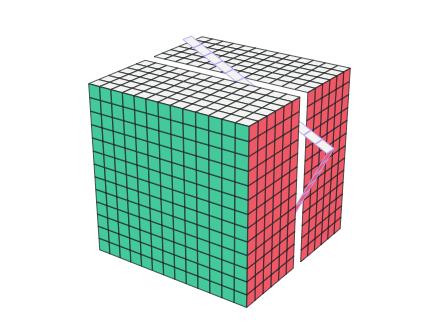
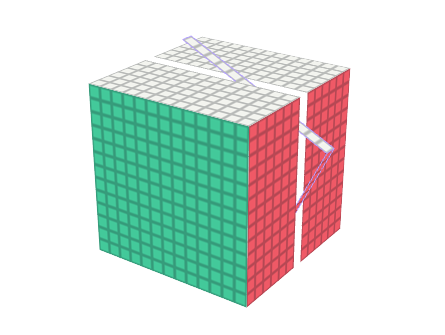
Update Site source

Changed region(s): [[0.1753, 0.0896, 0.7888, 0.9254]]

diff --git a/dist/large-view.js b/dist/large-view.js
@@ -9,7 +9,7 @@
     if(rotation&&delta){const i=(rotation.coordinate-start)/delta;if(Number.isInteger(i)&&i>=0&&i<length){cuts.add(i);cuts.add(i+1);}}
     const points=[...cuts].sort((a,b)=>a-b);return points.slice(0,-1).map((n,i)=>[n,points[i+1]]);
   }
-  function buildPatches(model,rotation=null,maxSegments=24){
+  function buildPatches(model,rotation=null,maxSegments=24,gap=.97){
     const patches=[],ai=rotation?model.axisIndex(rotation.axis):-1;
     for(const face of ['U','R','F','D','L','B']){
       const [rows,cols]=model.shapes[face],firstCell=model.cells[model.offsets[face]],normal=firstCell.n,[u,v]=basis[face];
@@ -17,11 +17,27 @@
       for(const [r,re]of rowRanges)for(const [c,ce]of colRanges){
         const first=model.cells[model.offsets[face]+r*cols+c],last=model.cells[model.offsets[face]+(re-1)*cols+ce-1],position=first.p.map((p,i)=>(p+last.p[i])/2);
         const center=position.map((p,i)=>p+normal[i]),points=[];
-        for(const [a,b]of [[-1,-1],[1,-1],[1,1],[-1,1]]){const p=center.map((x,i)=>x+a*u[i]*(ce-c)*.97+b*v[i]*(re-r)*.97);p[1]*=-1;points.push(p);}
-        patches.push({points,normal:[normal[0],-normal[1],normal[2]],moving:!!rotation&&position[ai]===rotation.coordinate,index:model.offsets[face]+Math.floor((r+re-1)/2)*cols+Math.floor((c+ce-1)/2)});
+        for(const [a,b]of [[-1,-1],[1,-1],[1,1],[-1,1]]){const p=center.map((x,i)=>x+a*u[i]*(ce-c)*gap+b*v[i]*(re-r)*gap);p[1]*=-1;points.push(p);}
+        const moving=!!rotation&&position[ai]===rotation.coordinate;
+        const inLayer=(row,col)=>row>=0&&row<rows&&col>=0&&col<cols&&model.cells[model.offsets[face]+row*cols+col].p[ai]===rotation?.coordinate;
+        patches.push({points,face,range:{row:r,col:c,rows:re-r,cols:ce-c},normal:[normal[0],-normal[1],normal[2]],moving,edges:moving?[!inLayer(r-1,c),!inLayer(r,ce),!inLayer(re,c),!inLayer(r,c-1)]:[],index:model.offsets[face]+Math.floor((r+re-1)/2)*cols+Math.floor((c+ce-1)/2)});
       }
     }
     return patches;
+  }
+  function triangleTransform(source,target){
+    const [a,b,c]=source,[p,q,r]=target,du=b[0]-a[0],dv=b[1]-a[1],eu=c[0]-a[0],ev=c[1]-a[1],det=du*ev-eu*dv;
+    if(Math.abs(det)<1e-10)return null;
+    const m00=((q[0]-p[0])*ev-(r[0]-p[0])*dv)/det,m01=(du*(r[0]-p[0])-eu*(q[0]-p[0]))/det;
+    const m10=((q[1]-p[1])*ev-(r[1]-p[1])*dv)/det,m11=(du*(r[1]-p[1])-eu*(q[1]-p[1]))/det;
+    return [m00,m10,m01,m11,p[0]-m00*a[0]-m01*a[1],p[1]-m10*a[0]-m11*a[1]];
+  }
+  function drawTriangle(ctx,texture,source,target){
+    const matrix=triangleTransform(source,target);if(!matrix)return;
+    const cx=target.reduce((s,p)=>s+p[0],0)/3,cy=target.reduce((s,p)=>s+p[1],0)/3;
+    // Slightly overlap mesh triangles so antialiased clips cannot leave seams.
+    const clip=target.map(p=>{const dx=p[0]-cx,dy=p[1]-cy,length=Math.hypot(dx,dy)||1;return [p[0]+dx/length*.45,p[1]+dy/length*.45];});
+    ctx.save();ctx.beginPath();clip.forEach((p,i)=>i?ctx.lineTo(...p):ctx.moveTo(...p));ctx.closePath();ctx.clip();ctx.transform(...matrix);ctx.drawImage(texture,0,0);ctx.restore();
   }
   class LargeCubeView {
     constructor(){this.face='F';this.zoom=1;this.scroll={left:0,top:0};}
@@ -47,25 +63,46 @@
       zoom.oninput=()=>{this.zoom=Number(zoom.value);styleSize();};viewport.append(canvas);net.append(tabs,tools,zoomLabel,viewport);viewport.scrollLeft=this.scroll.left;viewport.scrollTop=this.scroll.top;
     }
     renderScene({scene,cube,model,stickers,colors,view,rotation=null}){
-      cube.hidden=true;let canvas=scene.querySelector('#large-preview');if(!canvas){canvas=document.createElement('canvas');canvas.id='large-preview';canvas.setAttribute('aria-label','大尺寸魔方抽样三维预览');scene.append(canvas);}
-      const width=scene.clientWidth||400,height=scene.clientHeight||335;canvas.width=width;canvas.height=height;canvas.style.cssText='position:absolute;inset:0;width:100%;height:100%;pointer-events:none';
-      const ctx=canvas.getContext('2d'),scale=90/Math.max(...model.dims)*view.scale;
+      cube.hidden=true;let canvas=scene.querySelector('#large-preview');if(!canvas){canvas=document.createElement('canvas');canvas.id='large-preview';canvas.setAttribute('aria-label','大尺寸魔方三维预览，按真实颜色网格绘制');scene.append(canvas);}
+      const width=scene.clientWidth||400,height=scene.clientHeight||335,dpr=Math.min(2,root.devicePixelRatio||1);canvas.width=Math.round(width*dpr);canvas.height=Math.round(height*dpr);canvas.style.cssText='position:absolute;inset:0;width:100%;height:100%;pointer-events:none';
+      const ctx=canvas.getContext('2d'),scale=90/Math.max(...model.dims)*view.scale;ctx.setTransform(dpr,0,0,dpr,0,0);ctx.imageSmoothingEnabled=true;ctx.imageSmoothingQuality='high';
       const [ax,ay,az]=[view.x,view.y,view.z].map(x=>x*Math.PI/180),cx=Math.cos(ax),sx=Math.sin(ax),cy=Math.cos(ay),sy=Math.sin(ay),cz=Math.cos(az),sz=Math.sin(az);
       function transform(v){let [x,y,z]=v;[x,y]=[x*cz-y*sz,x*sz+y*cz];[x,z]=[x*cy+z*sy,-x*sy+z*cy];return [x,y*cx-z*sx,y*sx+z*cx];}
       const patchKey=rotation?rotation.axis+':'+rotation.coordinate:'idle';
-      if(this.patchModel!==model||this.patchKey!==patchKey){this.patchModel=model;this.patchKey=patchKey;this.patches=buildPatches(model,rotation);}
+      if(this.patchModel!==model||this.patchKey!==patchKey){this.patchModel=model;this.patchKey=patchKey;this.patches=buildPatches(model,rotation,12,1);}
+      const detailUnit=Math.min(8,2**Math.floor(Math.log2(Math.max(1,400*dpr*view.scale/Math.max(...model.dims)))));
+      const gridOpacity=Math.round(Math.max(0,Math.min(1,(180*view.scale*dpr/Math.max(...model.dims)-2)/3))*100)/100;
+      if(this.textureModel!==model||this.textureStickers!==stickers||this.textureColors!==colors||this.textureDetail!==detailUnit||this.textureGrid!==gridOpacity){this.textureModel=model;this.textureStickers=stickers;this.textureColors=colors;this.textureDetail=detailUnit;this.textureGrid=gridOpacity;this.textures=new Map();}
+      const textureFor=face=>{
+        if(this.textures.has(face))return this.textures.get(face);
+        const [rows,cols]=model.shapes[face],unit=8,image=document.createElement('canvas');image.width=cols*unit;image.height=rows*unit;
+        const paint=image.getContext('2d'),borders={};
+        for(const [name,color]of Object.entries(colors)){const rgb=[1,3,5].map(i=>parseInt(color.hex.slice(i,i+2),16)),dark=[16,20,29];borders[name]='rgb('+rgb.map((v,i)=>Math.round(v*(1-gridOpacity)+dark[i]*gridOpacity)).join(',')+')';}
+        for(let r=0;r<rows;r++)for(let c=0;c<cols;c++){
+          const name=stickers[model.offsets[face]+r*cols+c],color=colors[name]?.hex||'#323d50';
+          paint.fillStyle=gridOpacity?(borders[name]||'#10141d'):color;paint.fillRect(c*unit,r*unit,unit,unit);
+          if(gridOpacity){paint.fillStyle=color;paint.fillRect(c*unit+.25,r*unit+.25,unit-.5,unit-.5);}
+        }
+        let filtered=image;if(detailUnit<unit){filtered=document.createElement('canvas');filtered.width=cols*detailUnit;filtered.height=rows*detailUnit;const filter=filtered.getContext('2d');filter.imageSmoothingEnabled=true;filter.imageSmoothingQuality='high';filter.drawImage(image,0,0,filtered.width,filtered.height);}
+        const result={image:filtered,unit:detailUnit};this.textures.set(face,result);return result;
+      };
       const polygons=[];
       for(const patch of this.patches){
         const normal=rotation&&patch.moving?rotate(patch.normal,rotation.axis,rotation.angle):patch.normal;
-        if(transform(normal)[2]<=0)continue;
+        if(transform(normal)[2]<=1e-7)continue;
         const points=patch.points.map(p=>transform((rotation&&patch.moving?rotate(p,rotation.axis,rotation.angle):p).map(x=>x*scale)));
-        polygons.push({points,color:colors[stickers[patch.index]]?.hex||'#323d50',moving:patch.moving,depth:points.reduce((s,p)=>s+p[2],0)/4});
+        polygons.push({points,patch,depth:points.reduce((s,p)=>s+p[2],0)/4});
       }
       polygons.sort((a,b)=>a.depth-b.depth);
-      for(const poly of polygons){ctx.beginPath();poly.points.forEach((p,i)=>{const f=900/(900-p[2]),x=width/2+p[0]*f,y=height*.48+p[1]*f;i?ctx.lineTo(x,y):ctx.moveTo(x,y);});ctx.closePath();ctx.fillStyle=poly.color;ctx.fill();ctx.lineWidth=poly.moving?.8:.7;ctx.strokeStyle=poly.moving?'#b4a0ff':'#11151d';ctx.stroke();}
+      for(const poly of polygons){
+        const {patch}=poly,{image,unit}=textureFor(patch.face),r=patch.range,uv=[[r.col*unit,r.row*unit],[(r.col+r.cols)*unit,r.row*unit],[(r.col+r.cols)*unit,(r.row+r.rows)*unit],[r.col*unit,(r.row+r.rows)*unit]];
+        const screen=poly.points.map(p=>{const f=900/(900-p[2]);return [width/2+p[0]*f,height*.48+p[1]*f];});
+        for(const indices of [[0,1,2],[0,2,3]])drawTriangle(ctx,image,indices.map(i=>uv[i]),indices.map(i=>screen[i]));
+        if(patch.moving){ctx.beginPath();for(let i=0;i<4;i++)if(patch.edges[i]){ctx.moveTo(...screen[i]);ctx.lineTo(...screen[(i+1)%4]);}ctx.strokeStyle='#b4a0ff';ctx.lineWidth=.9;ctx.stroke();}
+      }
     }
   }
-  LargeCubeView.buildPatches=buildPatches;LargeCubeView.rotate=rotate;
+  LargeCubeView.buildPatches=buildPatches;LargeCubeView.rotate=rotate;LargeCubeView.triangleTransform=triangleTransform;
   root.LargeCubeView=LargeCubeView;
   if(typeof module!=='undefined')module.exports={LargeCubeView};
 })(typeof self!=='undefined'?self:globalThis);

diff --git a/dist/app.js b/dist/app.js
@@ -126,7 +126,7 @@
   function renderSize(){
     model.dims.forEach((n,i)=>$('size-'+['x','y','z'][i]).value=n);$('size-tag').textContent=model.dims.join(' × ');
     $('solver-scope').textContent=model.classic||model.pocket?'二阶、三阶支持任意合法填色求解。':'此尺寸使用置换搜索和化简求解；复杂随机状态会使用打乱记录构造可验证的解。复杂自填状态可能超出搜索范围。';
-    $('preview-hint').textContent=isLarge()?'拖动查看各面 · 三维预览抽样显示，填色和求解使用全部格子':'拖动查看各面 · 滚轮缩放';
+    $('preview-hint').textContent=isLarge()?'拖动查看各面 · 按真实格数绘制，缩小时平滑显示':'拖动查看各面 · 滚轮缩放';
     document.querySelector('.orientation').textContent=isLarge()?'大尺寸按单面填写。先选一个面，行从上向下、列从左向右；可缩放、滚动，或按行列精确填色。':'展开方向：前面居中，上、下分别在前面的上方和下方；背面在右面右侧。按展开图方向填写。';
     $('paint-hint').textContent='先选颜色，再点方格，也可以展开“手动填写颜色”直接输入。黑色表示忽略：只需将非黑色格子还原到对应颜色的面。'+(model.classic?'中心格固定。':'所有方格均可填写，目标配色见下方。');renderManual();readFace();
   }

diff --git a/dist/index.html b/dist/index.html
@@ -10,10 +10,10 @@
   <script src="vendor/cube.js" defer></script>
   <script src="core.js?v=black1" defer></script>
   <script src="cuboid.js?v=expand1" defer></script>
-  <script src="large-view.js?v=net1" defer></script>
+  <script src="large-view.js?v=edge1" defer></script>
   <script src="net-motion.js?v=net1" defer></script>
   <script src="color-input.js?v=expand1" defer></script>
-  <script src="app.js?v=net1" defer></script>
+  <script src="app.js?v=edge1" defer></script>
 </head>
 <body>
   <header class="topbar"><a class="brand" href="./"><span class="brand-mark">▦</span>魔方一步步</a><span id="size-tag" class="tag">3 × 3 × 3</span></header>

diff --git a/README.md b/README.md
@@ -18,11 +18,11 @@
 
 “运行”连续逐步执行，可随时暂停。速度可设 0.5–120 步/秒，可通过滑块或手动数字输入调整，新速度从下一步生效。关闭动画时按时间累计执行步骤，合并重复绘制以提高速度，仍按顺序执行每条转动，手动“下一步”始终只执行一步；实际速度受设备性能影响。暂停时当前转动完成即停止。“重置本次运行”恢复本次求解前的完整填色、黑色位置和打乱记录，保留还原方案以便重播；转动中重置会在本步结束后恢复。重新填色或生成随机魔方会清除旧方案。
 
-“显示转动动画”控制单步、手动转动和连续运行的动画，设置会保存。默认遵循系统减少动态效果的偏好，也可以手动开启。大尺寸画布逐帧旋转指定层，按当前速度完成 90° 或 180° 转动；抽样格会在该层边界处拆分，确保百阶的细薄内层也能单独显示。调整视角、暂停、重置与动画可以同时使用；关闭动画从下一步生效。
+“显示转动动画”控制单步、手动转动和连续运行的动画，设置会保存。默认遵循系统减少动态效果的偏好，也可以手动开启。大尺寸画布逐帧旋转指定层，按当前速度完成 90° 或 180° 转动；绘制网格会在该层边界处拆分，确保百阶的细薄内层也能单独显示。调整视角、暂停、重置与动画可以同时使用；关闭动画从下一步生效。
 
 展开图也显示运行过程，使用与三维转动相同的动画时钟。紫色高亮本步受影响的区域，色块沿面内旋转弧线或跨面流向示意移动，终点严格对应实际色块置换。展开图旁的运行/暂停、下一步、重置与原控制器共享同一份状态。暂停和转动中重置不会提前清除尚在进行的展开图动画。大尺寸自动跟随受影响的面：整面转动显示位图旋转，跨面交换显示格子的流入/流出。关闭动画时保留高速度批量执行，并同步显示结果和已执行步数。
 
-最大边超过 12 时使用单面填色画布，可切换六个面、缩放和滚动，也可输入行列精确填色。三维预览对大尺寸抽样显示，实际求解和填色仍处理所有格子。大尺寸随机生成在后台线程执行；100×100×100 包含 60000 个表面格子。
+最大边超过 12 时使用单面填色画布，可切换六个面、缩放和滚动，也可输入行列精确填色。三维预览按真实行列生成颜色纹理，再通过透视网格绘制，边缘和中间格子使用相同的几何比例；不再把抽样后剩余的格子单独画成窄条。高阶缩小显示时使用纹理过滤并平滑细网格，避免密集网格的干扰纹；高分辨率屏幕按设备像素比例绘制。大尺寸随机生成在后台线程执行；100×100×100 包含 60000 个表面格子。
 
 长方体某一旋转轴的截面不是正方形时，仅允许 180° 转动。其他截面允许 90° 和 180°。非三阶支持选择任意一层；层号从 X 左侧、Y 下侧、Z 后侧开始计数，方向从对应轴的正侧（右、上、前）观察。只有三阶固定中心，其他尺寸按六面的目标配色判断完成。
 
@@ -41,3 +41,5 @@ X 为左右轴（右 R / 左 L），Y 为上下轴（上 U / 下 D），Z 为前
 扩展验证：`node test-expanded.cjs` 验证颜色文本解析、非法输入、两百阶尺寸和超过 2000 步的历史；`qa-expanded.cjs` 验证六面手动导入、速度实测、高速暂停重置、两百阶随机状态和完整方案验证。
 
 展开图验证：`node test-net-motion.cjs` 校验转移终点、受影响面和含黑格状态；`qa-net-motion.cjs` 检查实际中间帧、与 DOM/画布三维视图的同步、展开图控制器、暂停撤回、转动中重置、受影响面跟随及两百阶动画。
+
+边缘验证：`node test-render-edges.cjs` 校验每个格子的覆盖、纹理与几何比例、边界转动和投影；`qa-render-edges.cjs` 检查首尾颜色、二十五阶实际列宽和高分辨率渲染。`qa-edge-gallery.cjs` 可输出多阶对比图。
